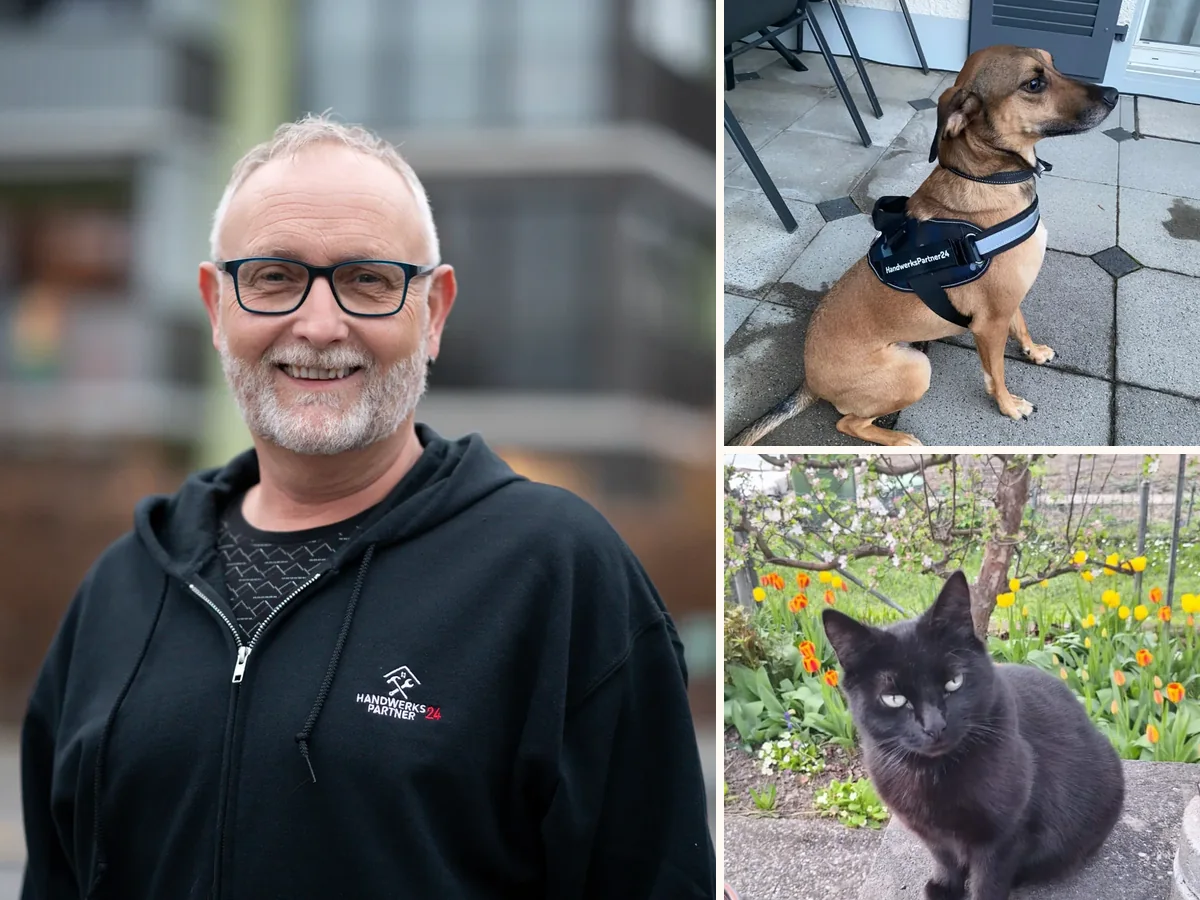
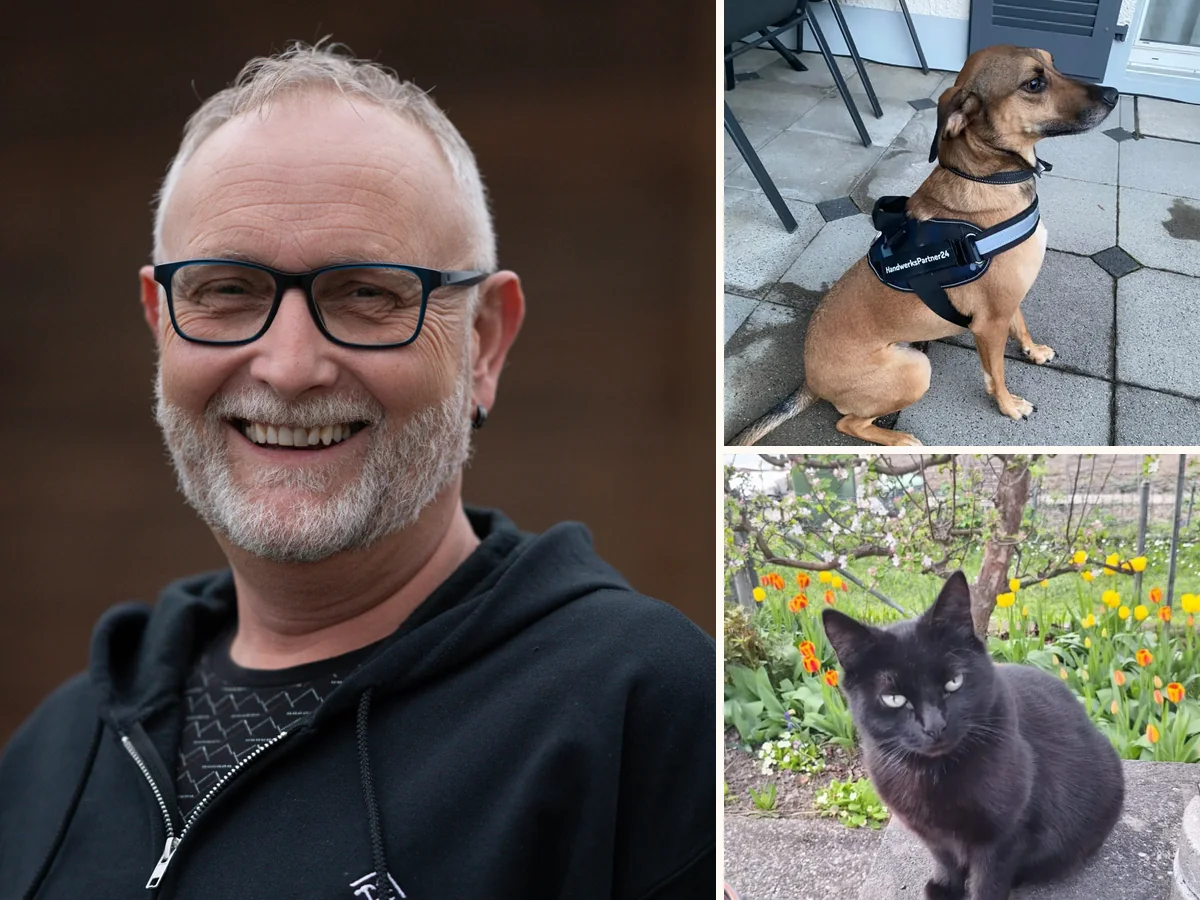
draft fixes

diff --git a/assets/css/main.scss b/assets/css/main.scss
@@ -1422,6 +1422,9 @@ main :where(p, li) a:not(.button):not(.text-link):focus-visible {
 
 .project-card__images.project-card__images--single {
   grid-template-columns: 1fr;
+  /* Match the height of a 4-across image row so single-image projects
+     don't render taller than the others. */
+  grid-template-rows: 280px;
 }
 
 .project-thumb {
@@ -1959,6 +1962,10 @@ main :where(p, li) a:not(.button):not(.text-link):focus-visible {
   background: var(--color-stone);
 }
 
+.partner-band h2 {
+  margin-bottom: 0.55rem;
+}
+
 .partner-band p {
   max-width: var(--measure-copy);
   color: var(--color-muted);
@@ -2281,7 +2288,11 @@ main :where(p, li) a:not(.button):not(.text-link):focus-visible {
   flex: 0 0 auto;
   width: 18px;
   height: 18px;
-  margin-top: 0.18rem;
+  /* The general .form input rule gives fields min-height:48px + padding; reset
+     that here so the checkbox is a true 18px box that sits on the first line. */
+  min-height: 0;
+  padding: 0;
+  margin: 1px 0 0;
 }
 
 .form__checkbox a {
@@ -3292,6 +3303,10 @@ main :where(p, li) a:not(.button):not(.text-link):focus-visible {
 
   .project-card__images {
     grid-template-columns: repeat(2, 1fr);
+  }
+
+  .project-card__images.project-card__images--single {
+    grid-template-rows: 341px;
   }
 
   .project-thumb img {

diff --git a/assets/js/site.js b/assets/js/site.js
@@ -254,7 +254,11 @@
 
   const lightbox = document.querySelector("[data-lightbox]");
   const lightboxImage = document.querySelector("[data-lightbox-image]");
-  const lightboxCaption = document.querySelector("[data-lightbox-caption]");
+  // Scope to the lightbox: the gallery trigger buttons ALSO carry
+  // data-lightbox-caption (as the caption source), so an unscoped query would
+  // grab the first thumbnail button and renderLightboxImage would overwrite
+  // its <img> with the caption text.
+  const lightboxCaption = lightbox ? lightbox.querySelector("[data-lightbox-caption]") : null;
   const lightboxClose = document.querySelector("[data-lightbox-close]");
   let lastLightboxTrigger = null;
   const lightboxFocusableSelector = "a[href], button:not([disabled]), input:not([disabled]), textarea:not([disabled]), select:not([disabled]), [tabindex]:not([tabindex='-1'])";
@@ -306,16 +310,22 @@
       ? Array.from(groupRoot.querySelectorAll("[data-lightbox-src]"))
       : [trigger];
     lightboxIndex = Math.max(0, lightboxGroup.indexOf(trigger));
-    renderLightboxImage();
+    // Reveal the container FIRST, then set the image source. Setting src while
+    // the container is display:none can leave the image unpainted on iOS Safari
+    // (the reported "first photo shows alt text" bug).
     lightbox.hidden = false;
     doc.classList.add("has-lightbox-open");
+    renderLightboxImage();
     if (lightboxClose) lightboxClose.focus();
   };
 
   const closeLightbox = () => {
     if (!lightbox || !lightboxImage) return;
+    // Note: we deliberately do NOT clear lightboxImage.src here. The viewer and
+    // the gallery thumbnail reference the same file, and clearing the src made
+    // the browser drop the shared decoded image — which blanked the thumbnail
+    // that had just been opened. Leaving it loaded keeps both intact.
     lightbox.hidden = true;
-    lightboxImage.src = "";
     doc.classList.remove("has-lightbox-open");
     if (lastLightboxTrigger) lastLightboxTrigger.focus();
   };

diff --git a/_pages/kontakt.html b/_pages/kontakt.html
@@ -8,7 +8,7 @@ eyebrow: "Kontakt"
 lead: "Senden Sie Leistung, Ort und eine kurze Beschreibung. Wir klären offene Fragen, prüfen Fotos oder Besichtigung und erstellen danach die Offerte."
 hero_image: "/assets/images/site/renzo-contact.webp"
 hero_alt: "Renzo Guggisberg von HandwerksPartner24"
-hero_position: "center 36%"
+hero_position: "center"
 ---
 {% assign biz = site.data.site.business %}
 
@@ -26,7 +26,7 @@ hero_position: "center 36%"
     </div>
 
     <div class="form-card" id="offerte" data-reveal>
-      <h2>Anfrage für eine Offerte senden</h2>
+      <h2>Anfrage für eine Offerte&nbsp;senden</h2>
       <p>Beschreiben Sie, welche Arbeit an welchem Ort gemacht werden soll. Wenn Masse, Fotos oder eine Besichtigung nötig sind, melden wir uns persönlich.</p>
       {% include contact-form.html id_prefix="kontakt" context="kontaktseite" %}
     </div>

diff --git a/_includes/project-gallery.html b/_includes/project-gallery.html
@@ -8,7 +8,7 @@
         <p class="project-card__meta">{{ forloop.index | prepend: '0' }}</p>
         <h3>{{ project.title }}</h3>
         <p>{{ project.summary }}</p>
-        <a class="text-link" href="{{ project.service_url | relative_url }}">Passende Leistung ansehen{% include icon.html name="arrow-right" size=16 %}</a>
+        <a class="text-link" href="{{ project.service_url | relative_url }}">{{ project.service_label | default: "Passende Leistung ansehen" }}{% include icon.html name="arrow-right" size=16 %}</a>
       </div>
       <div class="project-card__images{% if project.images.size == 1 %} project-card__images--single{% endif %}" aria-label="Bilder zu {{ project.title }}">
         {% for image in project.images %}

diff --git a/index.html b/index.html
@@ -74,7 +74,7 @@ description: "HandwerksPartner24 mit Renzo Guggisberg: Katzennetze, Hauswartunge
   <div class="shell split split--offer">
     <div class="split__copy" data-reveal>
       <p class="eyebrow">Offerte</p>
-      <h2>Klarer Umfang, klare Offerte.</h2>
+      <h2>Klarer&nbsp;Umfang, klare&nbsp;Offerte.</h2>
       <p>Gute handwerkliche Arbeit beginnt mit sauberer Klärung. Ort, Material, Zustand und gewünschtes Ergebnis bestimmen, welche Arbeit nötig ist.</p>
       <p>Darum prüfen wir Ihre Anfrage zuerst persönlich und erstellen danach eine nachvollziehbare Offerte für den vereinbarten Umfang.</p>
     </div>